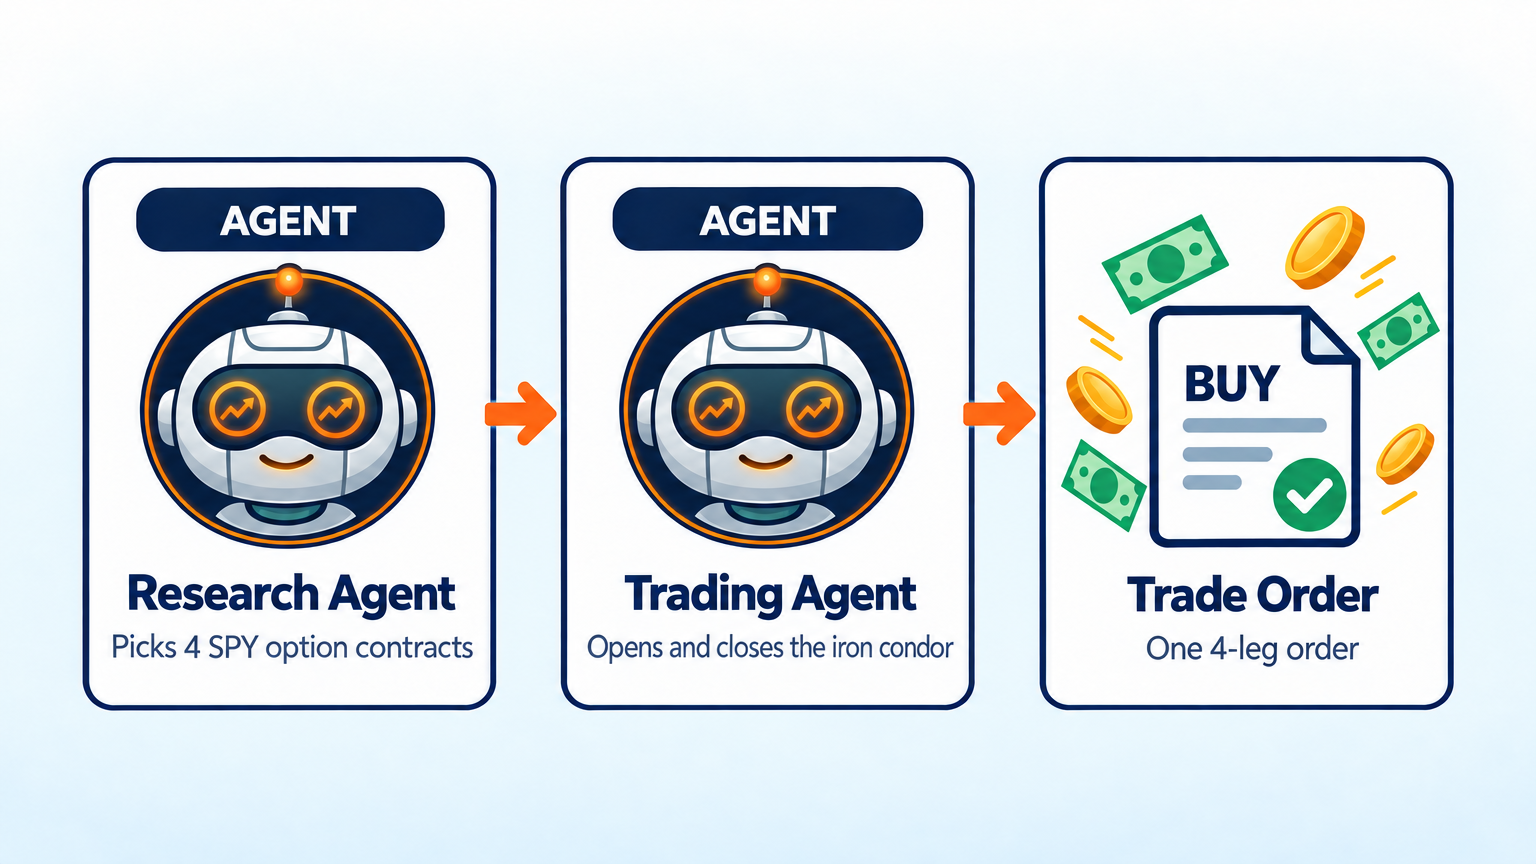
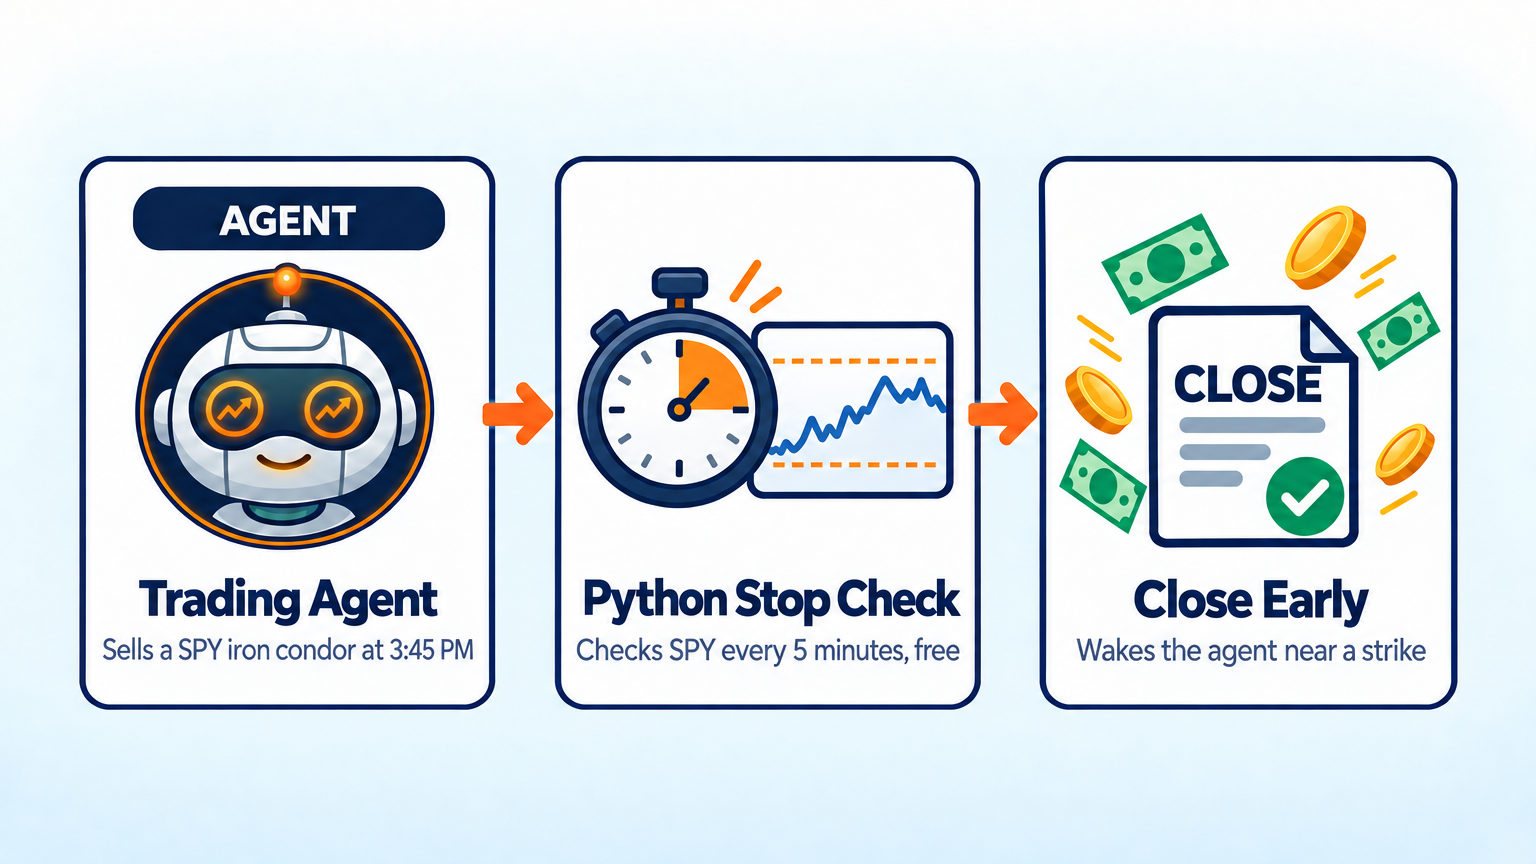
AI Iron Condor workflow image: trading agent, Python stop check, close early
Approved Image Generator output, unedited; receipt updated.
Tests: .venv/bin/python -m pytest tests/docs/test_ai_example_pages.py -q: passed.

diff --git a/docs/research/2026-09-29_ai-bot-workflow-artwork-receipt.md b/docs/research/2026-09-29_ai-bot-workflow-artwork-receipt.md
@@ -18,3 +18,11 @@ All twelve images are unedited outputs of the approved Image Generator (GPT Imag
[3 lines of base64/hex data omitted]
+
+## 2026-09-30: AI Iron Condor redrawn
+
+The bot became one trading agent plus a plain-Python stop, so its image was regenerated with the approved Image Generator (GPT Image 2.5 Sunburst, max), using the previous iron condor image as the style reference and the official mascot close-up for the agent card only. Unedited output, inspected at full size.
+
+| Asset | Visible flow | SHA-256 |
+|---|---|---|
[1 lines of base64/hex data omitted]
